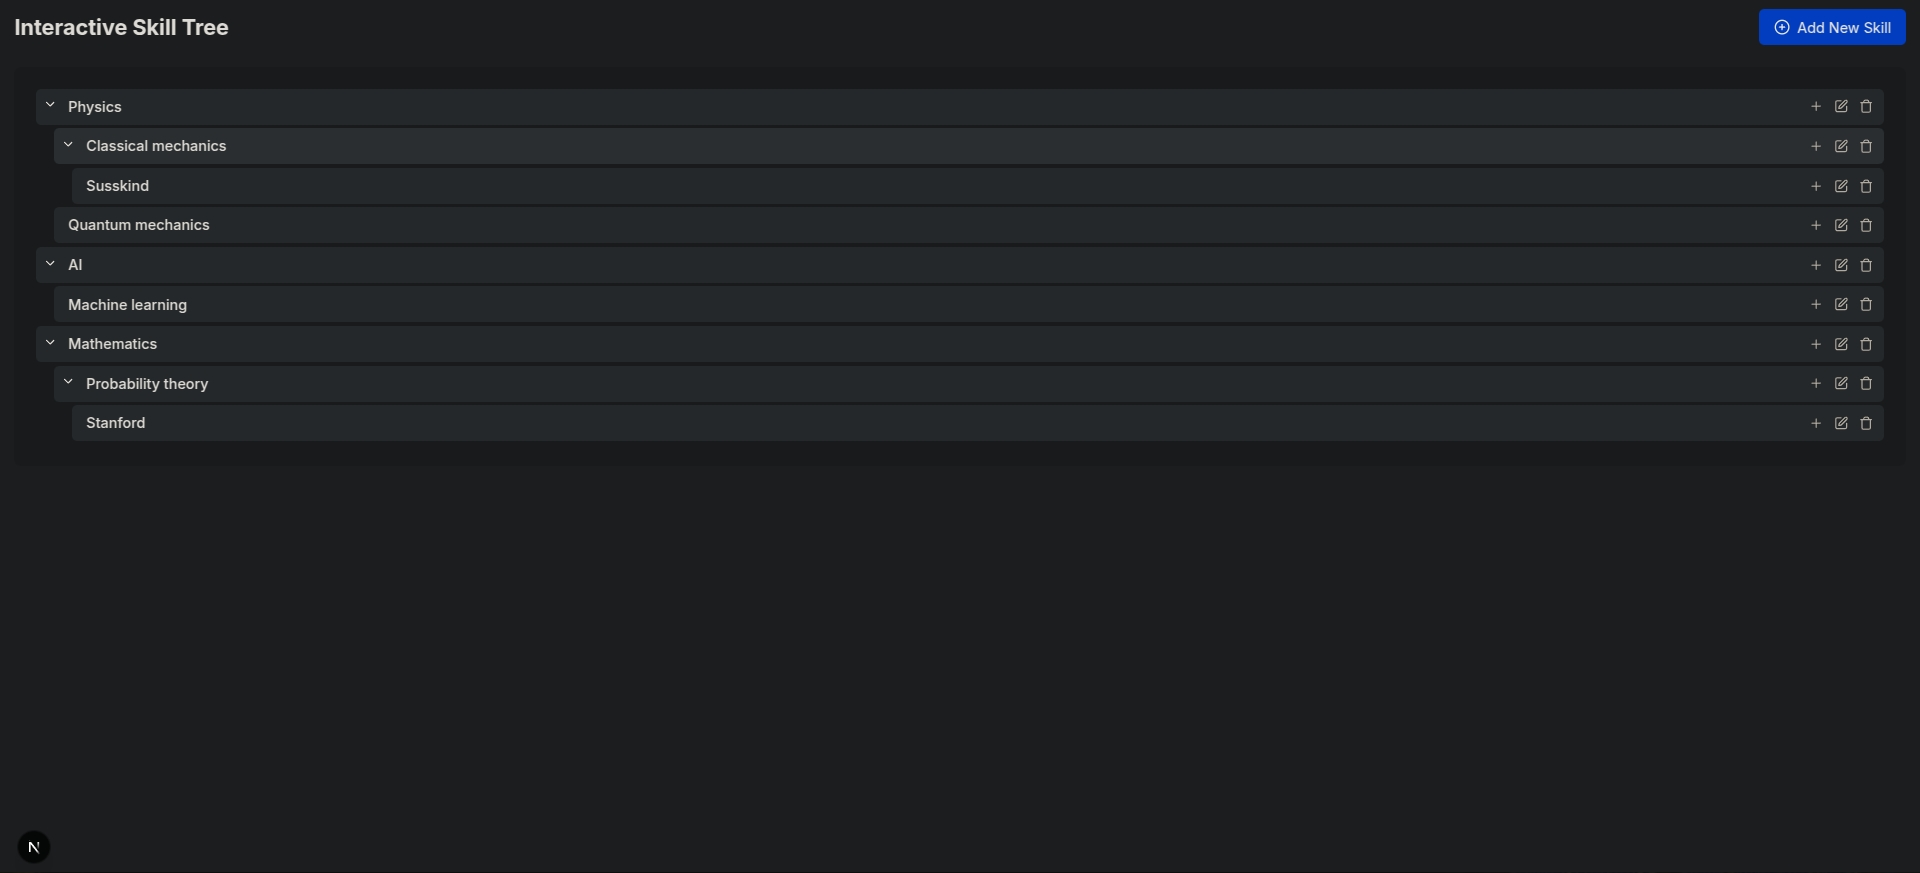
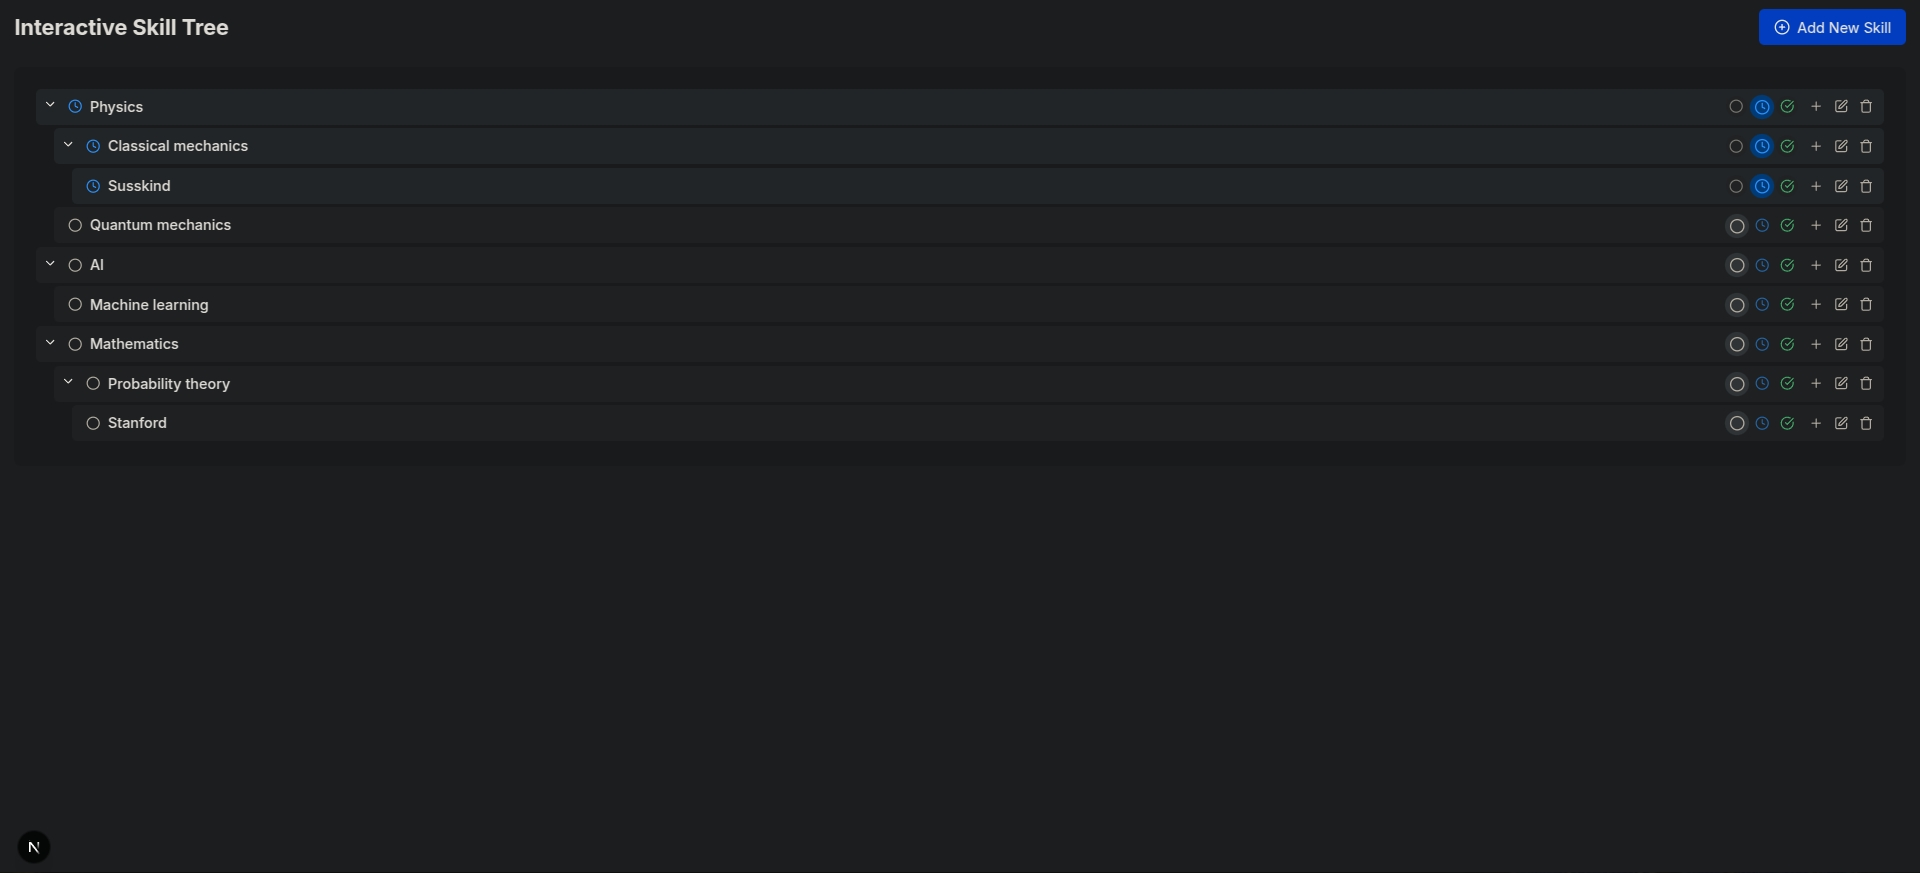
Enhance skill tree interface with improved status visualization and quick status toggle

diff --git a/src/components/SkillItem.tsx b/src/components/SkillItem.tsx
@@ -3,7 +3,7 @@
 import { FC } from 'react';
 import { Skill, SkillStatus } from '@/types';
 import { useSkillTree } from '@/context/SkillTreeContext';
-import { ChevronDown, ChevronRight, Edit, Trash, Plus } from 'lucide-react';
+import { ChevronDown, ChevronRight, Edit, Trash, Plus, CheckCircle, Circle, Clock } from 'lucide-react';
 import IconWrapper from './IconWrapper';
 
 interface SkillItemProps {
@@ -12,18 +12,18 @@ interface SkillItemProps {
 }
 
 const SkillItem: FC<SkillItemProps> = ({ skill, level }) => {
-  const { toggleExpand, setSelectedSkill, deleteSkill, addSkill } = useSkillTree();
+  const { toggleExpand, setSelectedSkill, deleteSkill, addSkill, updateSkill } = useSkillTree();
 
-  const getStatusColor = (status: SkillStatus) => {
+  const getStatusStyles = (status: SkillStatus) => {
     switch (status) {
       case SkillStatus.TODO:
-        return 'bg-gray-200';
+        return 'bg-gray-100 border-l-4 border-gray-500 todo-item';
       case SkillStatus.IN_PROGRESS:
-        return 'bg-blue-200';
+        return 'bg-blue-100 border-l-4 border-blue-500 in-progress-item';
       case SkillStatus.COMPLETED:
-        return 'bg-green-200';
+        return 'bg-green-100 border-l-4 border-green-500 completed-item';
       default:
-        return 'bg-gray-200';
+        return 'bg-gray-100 border-l-4 border-gray-500 todo-item';
     }
   };
 
@@ -46,10 +46,59 @@ const SkillItem: FC<SkillItemProps> = ({ skill, level }) => {
     toggleExpand(skill.id);
   };
 
+  const changeStatus = (newStatus: SkillStatus, e: React.MouseEvent) => {
+    e.stopPropagation();
+    updateSkill({
+      ...skill,
+      status: newStatus
+    });
+  };
+
+  const getStatusIcon = (status: SkillStatus) => {
+    switch (status) {
+      case SkillStatus.TODO:
+        return <IconWrapper icon={<Circle size={16} className="text-gray-600" />} />;
+      case SkillStatus.IN_PROGRESS:
+        return <IconWrapper icon={<Clock size={16} className="text-blue-600" />} />;
+      case SkillStatus.COMPLETED:
+        return <IconWrapper icon={<CheckCircle size={16} className="text-green-600" />} />;
+      default:
+        return <IconWrapper icon={<Circle size={16} className="text-gray-600" />} />;
+    }
+  };
+
+  const renderStatusButtons = () => {
+    return (
+      <div className="status-buttons flex space-x-1 mr-2" onClick={e => e.stopPropagation()}>
+        <button 
+          className={`p-1 rounded-full transition-all duration-200 ${skill.status === SkillStatus.TODO ? 'bg-gray-300 scale-110' : 'bg-gray-100 opacity-60'}`}
+          onClick={(e) => changeStatus(SkillStatus.TODO, e)}
+          title="Mark as To Do"
+        >
+          <IconWrapper icon={<Circle size={16} className="text-gray-600" />} />
+        </button>
+        <button 
+          className={`p-1 rounded-full transition-all duration-200 ${skill.status === SkillStatus.IN_PROGRESS ? 'bg-blue-300 scale-110' : 'bg-gray-100 opacity-60'}`}
+          onClick={(e) => changeStatus(SkillStatus.IN_PROGRESS, e)}
+          title="Mark as In Progress"
+        >
+          <IconWrapper icon={<Clock size={16} className="text-blue-600" />} />
+        </button>
+        <button 
+          className={`p-1 rounded-full transition-all duration-200 ${skill.status === SkillStatus.COMPLETED ? 'bg-green-300 scale-110' : 'bg-gray-100 opacity-60'}`}
+          onClick={(e) => changeStatus(SkillStatus.COMPLETED, e)}
+          title="Mark as Completed"
+        >
+          <IconWrapper icon={<CheckCircle size={16} className="text-green-600" />} />
+        </button>
+      </div>
+    );
+  };
+
   return (
     <div className="select-none" suppressHydrationWarning>
       <div 
-        className={`flex items-center p-2 rounded-md mb-1 cursor-pointer hover:bg-gray-100 ${getStatusColor(skill.status)}`}
+        className={`flex items-center p-2 rounded-md mb-1 cursor-pointer hover:bg-opacity-80 skill-item-transition ${getStatusStyles(skill.status)}`}
         style={{ marginLeft: `${level * 20}px` }}
         onClick={handleToggleExpand}
       >
@@ -63,7 +112,14 @@ const SkillItem: FC<SkillItemProps> = ({ skill, level }) => {
             </button>
           )}
         </div>
-        <div className="flex-grow font-medium">{skill.title}</div>
+        <div className="flex items-center gap-2">
+          <span className="status-indicator">
+            {getStatusIcon(skill.status)}
+          </span>
+          <div className="font-medium">{skill.title}</div>
+        </div>
+        <div className="flex-grow"></div>
+        {renderStatusButtons()}
         <div className="flex space-x-1">
           <button 
             onClick={handleAddSubskill}

diff --git a/src/app/globals.css b/src/app/globals.css
@@ -8,6 +8,9 @@
 :root {
   --background: #ffffff;
   --foreground: #171717;
+  --foreground-rgb: 0, 0, 0;
+  --background-start-rgb: 214, 219, 220;
+  --background-end-rgb: 255, 255, 255;
 }
 
 @media (prefers-color-scheme: dark) {
@@ -21,4 +24,49 @@ body {
   color: var(--foreground);
   background: var(--background);
   font-family: Arial, Helvetica, sans-serif;
+}
+
+/* Custom styling for skill items */
+.skill-item-transition {
+  transition: all 0.3s ease;
+}
+
+.todo-item {
+  --border-color: #6B7280;
+}
+
+.in-progress-item {
+  --border-color: #3B82F6;
+}
+
+.completed-item {
+  --border-color: #10B981;
+}
+
+/* Status indicator animation */
+@keyframes pulse {
+  0% {
+    transform: scale(1);
+    opacity: 0.8;
+  }
+  50% {
+    transform: scale(1.1);
+    opacity: 1;
+  }
+  100% {
+    transform: scale(1);
+    opacity: 0.8;
+  }
+}
+
+.status-indicator {
+  display: inline-flex;
+  align-items: center;
+  justify-content: center;
+  animation: pulse 2s infinite;
+  animation-play-state: paused;
+}
+
+.status-indicator:hover {
+  animation-play-state: running;
 }

diff --git a/README.md b/README.md
@@ -9,6 +9,7 @@ An interactive web application for managing hierarchical skill trees that allows
 - **Hierarchical Skill Trees**: Build nested skill trees with skills containing sub-skills multiple levels deep
 - **Interactive Interface**: Add, edit, and delete skills through an intuitive GUI
 - **Progress Tracking**: Track progress with status markers (To Do, In Progress, Completed)
+- **Quick Status Update**: Change task status with a single click using the status buttons
 - **Visual Status Indicators**: Different colors indicate the status of each skill
 - **Local Storage**: Your skill tree data is saved locally in your browser
 
@@ -50,7 +51,9 @@ An interactive web application for managing hierarchical skill trees that allows
 3. **Edit a Skill**: Click the edit (pencil) icon to modify a skill's details
 4. **Delete a Skill**: Click the delete (trash) icon to remove a skill and all its children
 5. **Expand/Collapse**: Click on a skill or its chevron icon to expand or collapse its children
-6. **Change Status**: Edit a skill to update its status (To Do, In Progress, Completed)
+6. **Change Status**: 
+   - Click directly on the status buttons (◯, 🕒, ✓) to quickly change status
+   - Or edit a skill to update its status from the form
 
 ## Technologies Used
 
